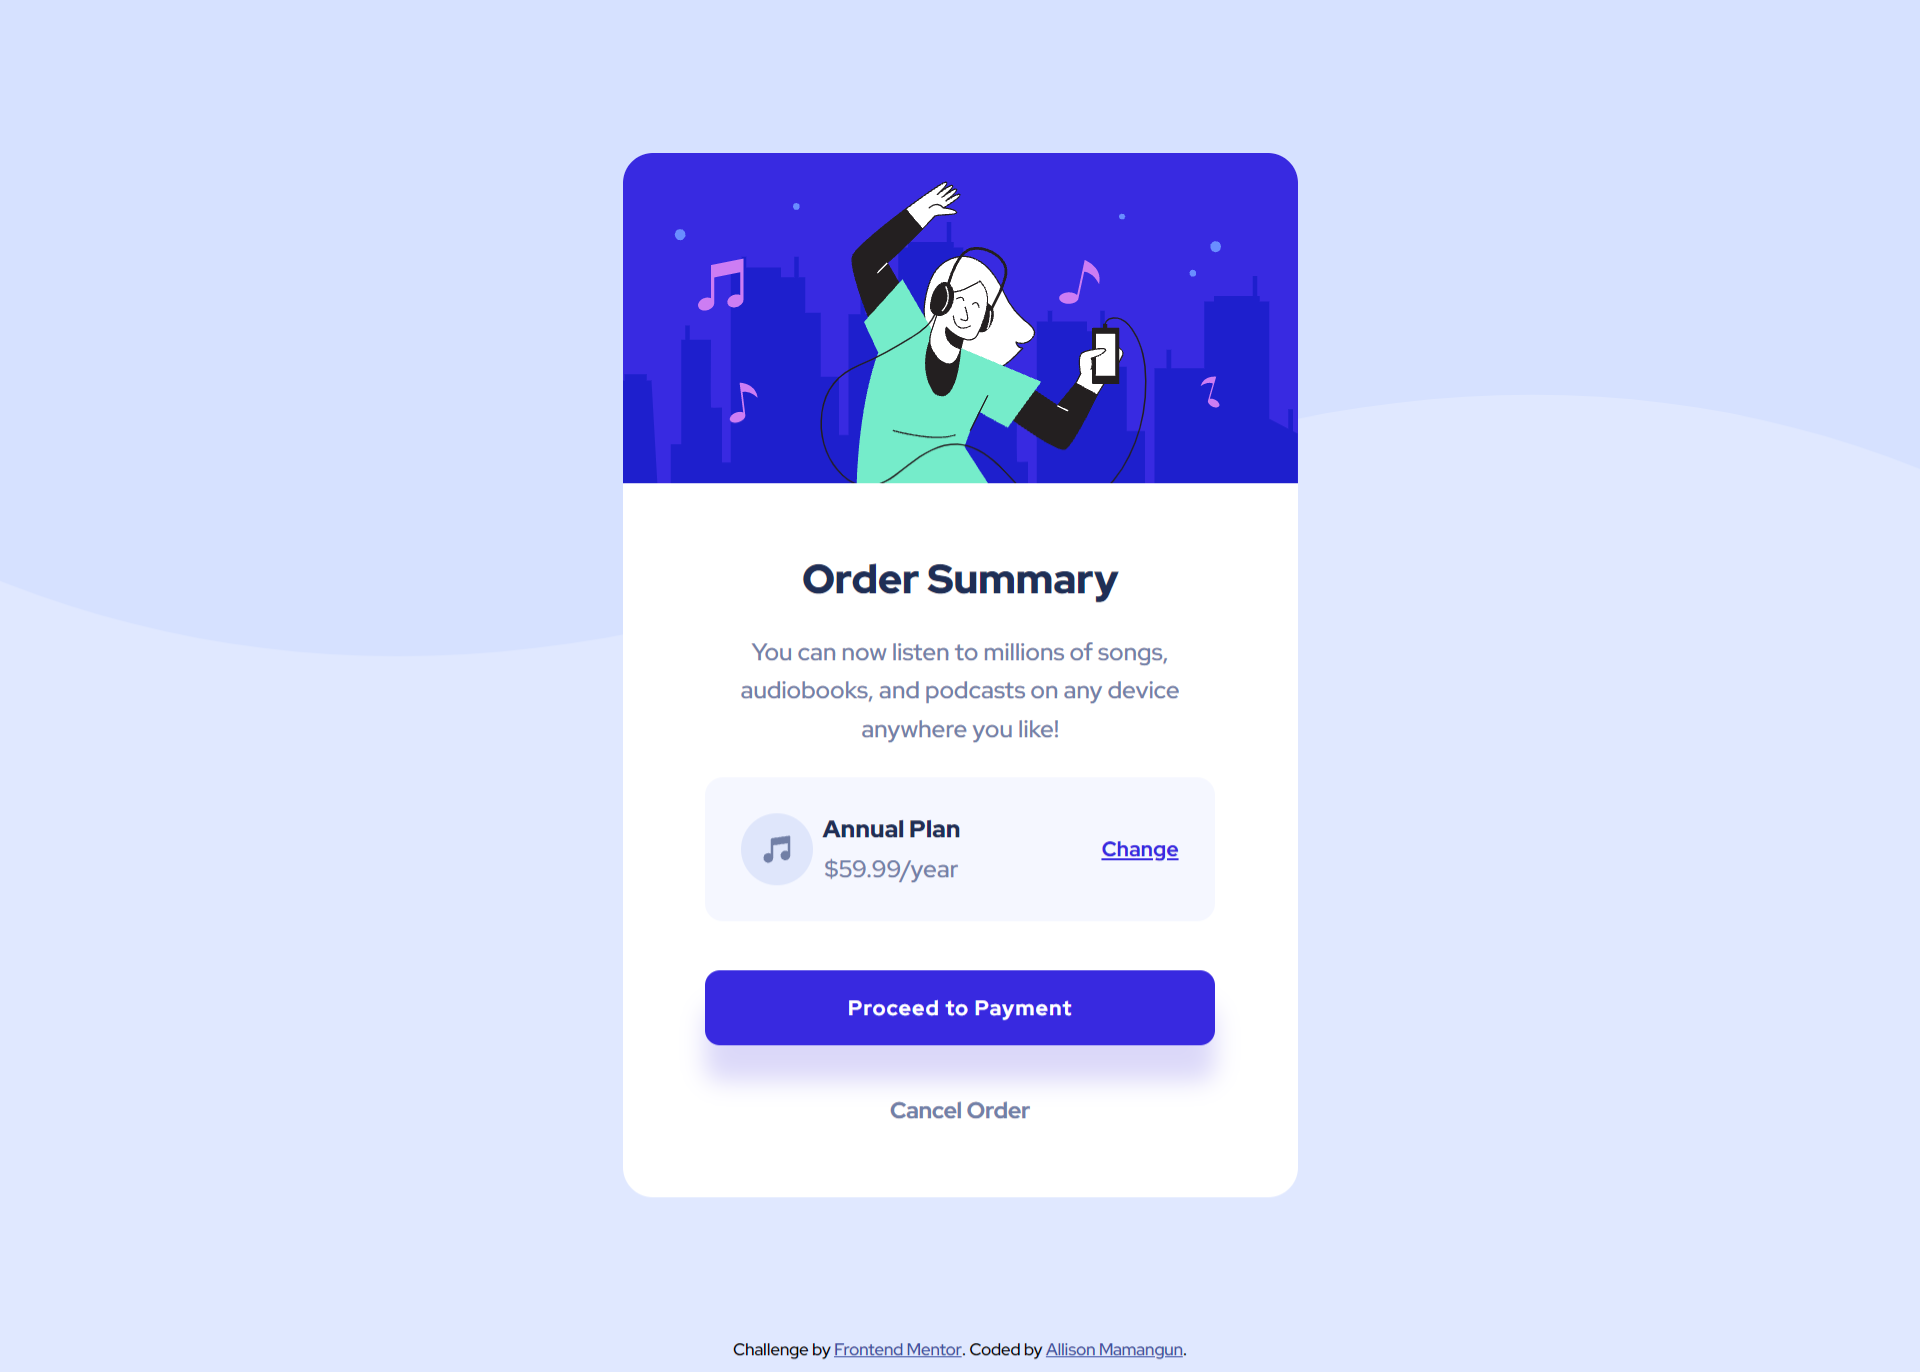
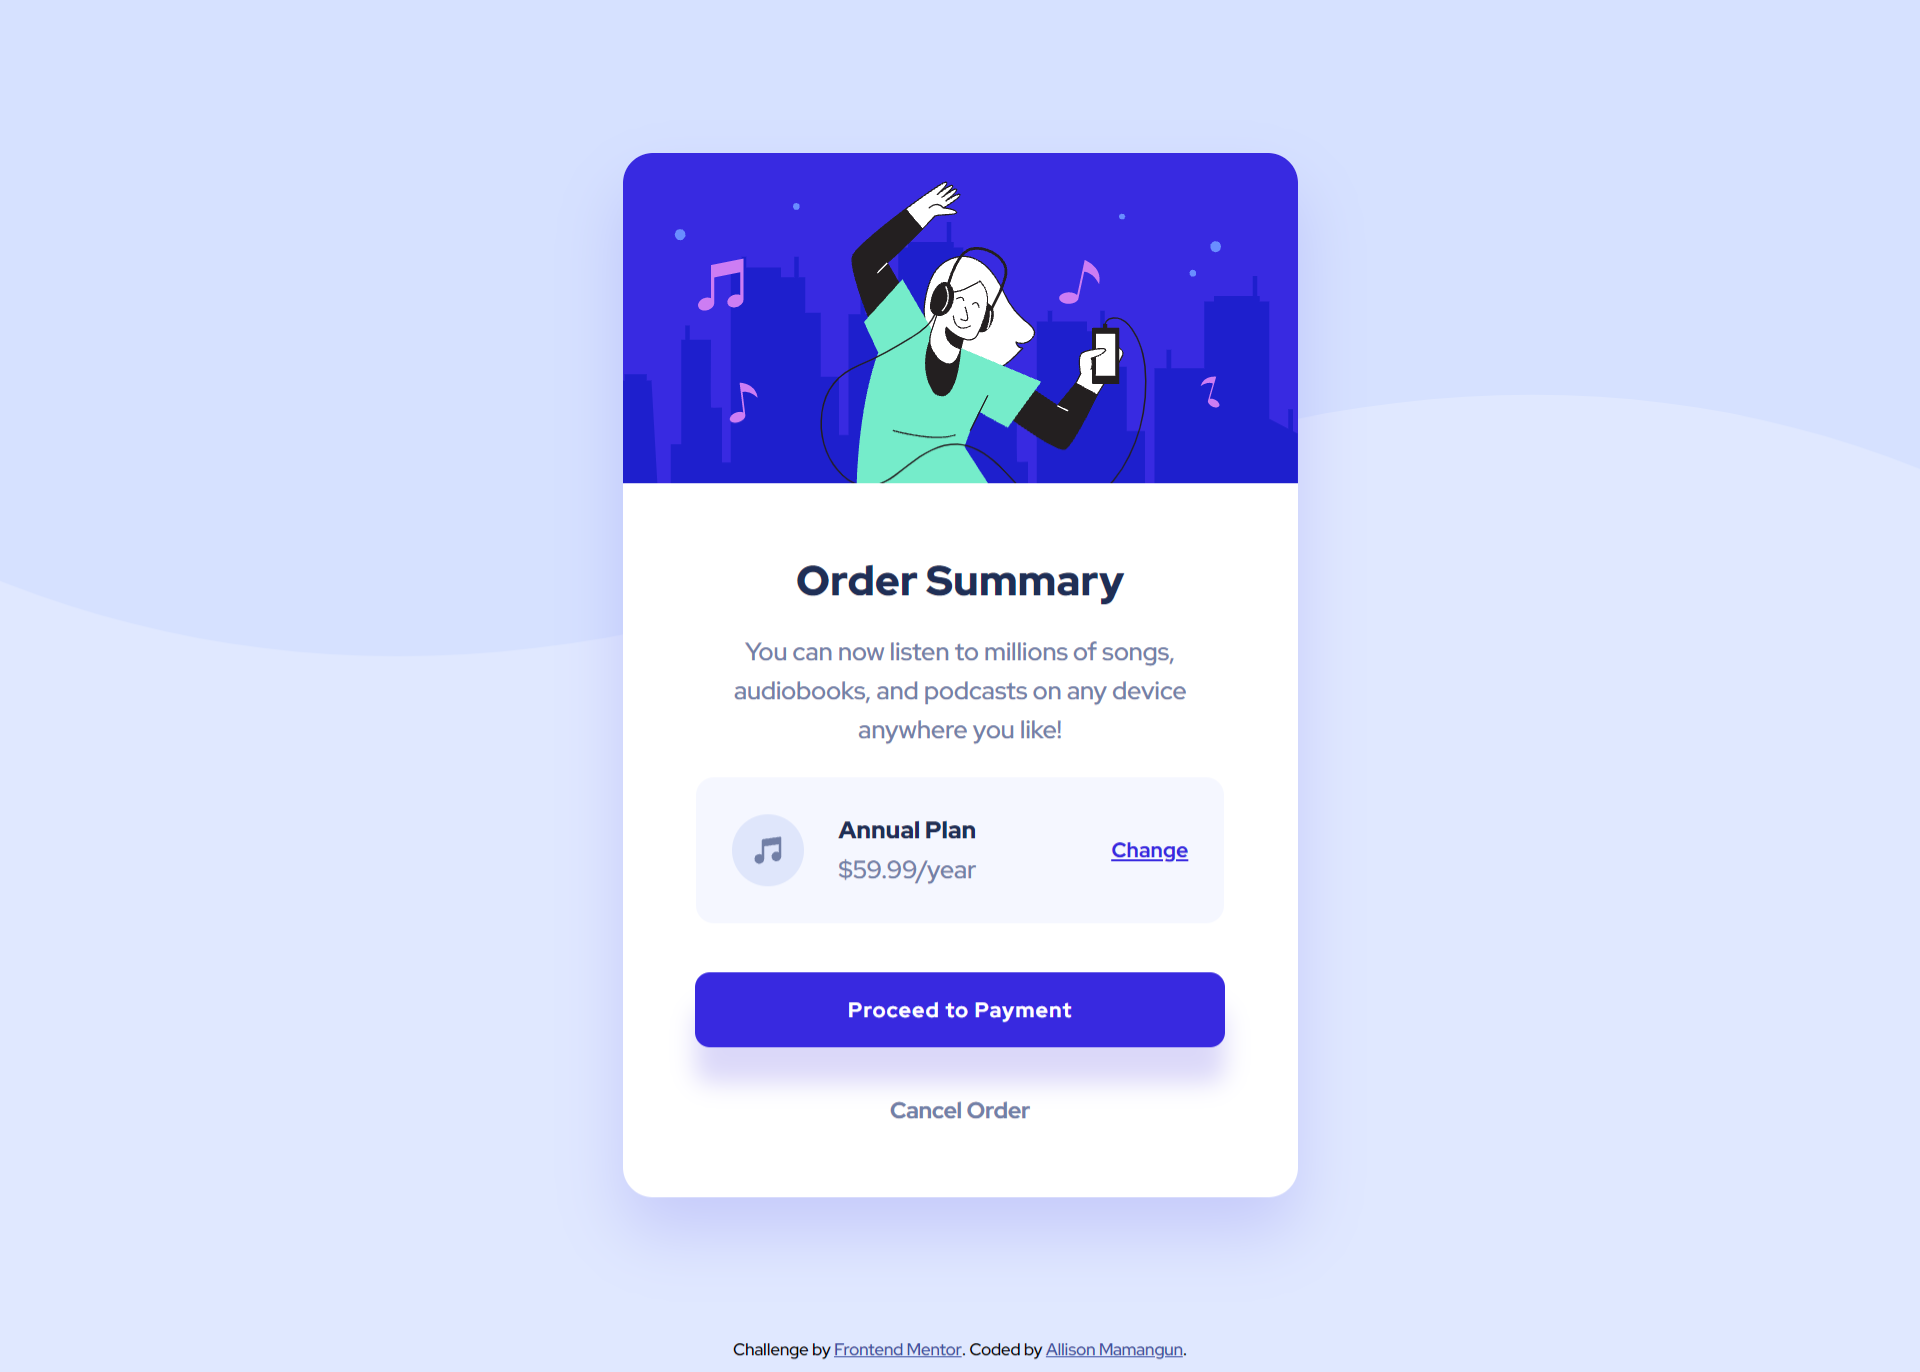
Updated SCSS

diff --git a/style.css b/style.css
@@ -47,7 +47,7 @@ h1 {
 @media (max-width: 23.5em) {
   h1 {
     font-size: 1.375rem;
-    margin-top: 1.6875rem;
+    margin-top: 1.625rem;
   }
 }
 
@@ -82,6 +82,7 @@ button:hover {
 @media (max-width: 23.5em) {
   button {
     padding: 1rem 4.0625rem;
+    margin-top: 1.5625rem;
   }
 }
 
@@ -169,6 +170,13 @@ button:hover {
   margin-left: 1.0625rem;
 }
 
+@media (max-width: 23.5em) {
+  .option .plan {
+    margin-right: 2.0625rem;
+    margin-left: 0px;
+  }
+}
+
 .option .plan p {
   width: 6.5rem;
 }
@@ -177,7 +185,6 @@ button:hover {
   .option .plan p {
     font-size: 0.875rem;
     width: 5.5rem;
-    margin-right: 2.0625rem;
   }
 }
 
@@ -187,6 +194,12 @@ button:hover {
   color: #1f2f56;
   margin-top: 0px;
   margin-bottom: 0.0625rem;
+}
+
+@media (max-width: 23.5em) {
+  .option .plan p.period {
+    font-size: 0.875rem;
+  }
 }
 
 .option .plan p.price {
@@ -229,7 +242,7 @@ button:hover {
 
 @media (max-width: 23.5em) {
   .cancelOrder {
-    margin-top: 1.4375rem;
+    margin-top: 1.5rem;
   }
 }
 /*# sourceMappingURL=style.css.map */

diff --git a/style.scss b/style.scss
@@ -60,13 +60,18 @@
         color: $darkBlue;
         margin-right: 5.25rem;
         margin-left: 1.0625rem;
+
+        @media (max-width: 23.5em){
+            margin-right: 2.0625rem;
+            margin-left: 0px;
+        }
         
         p {
             width: 6.5rem;
+
             @media (max-width: 23.5em){
                 font-size: 0.875rem;
                 width: 5.5rem;
-                margin-right: 2.0625rem;
             }
             
             &.period {
@@ -76,6 +81,9 @@
                 margin-top: 0px;
                 margin-bottom: 0.0625rem;
                 
+                @media (max-width: 23.5em){
+                    font-size: 0.875rem;
+                }
             }
             &.price{
                 margin-top: 0px; 
@@ -114,6 +122,6 @@
     }
 
     @media (max-width: 23.5em){
-        margin-top: 1.4375rem;
+        margin-top: 1.5rem;
     }
 }

diff --git a/_globals.scss b/_globals.scss
@@ -38,7 +38,7 @@ h1 {
 
     @media (max-width: 23.5em){
         font-size: 1.375rem;
-        margin-top: 1.6875rem;
+        margin-top: 1.625rem;
     }
 }
 
@@ -69,5 +69,6 @@ button {
 
     @media (max-width: 23.5em){
         padding: 1rem 4.0625rem;
+        margin-top: 1.5625rem;
     }
 }
